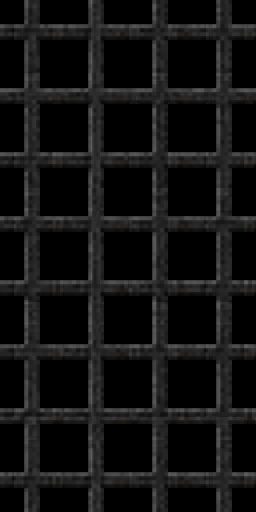
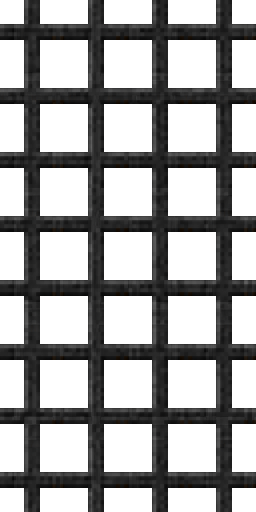
feat: wave 11 groundwork - the masked redraw alpha path
Masked mid-textures (grates, bars, vines) join the redraw pipeline:

- fix: wave 8 shipped AQMETL21/AQMETL15 redraws opaque while their
  natives are 85%/56% transparent - two-sided grate holes rendered
  solid; the native hole mask (4x nearest) is now their alpha, and
  pipeline v28 -> v29 drops the stale opaque packs
- EnhancedJobRunner: masked redraws pass AlphaBleedGuard before
  sharpen/mips so hole RGB cannot bleed into edges
- exporter writes RGBA with alpha-0 holes for masked composites
  (opaque outputs stay byte-identical RGB)
- validator --masked: hole fraction within 10pp of native, seam over
  premultiplied RGB; tone match stats over opaque texels only, alpha
  untouched; quantize carries alpha through
- WorldRedrawAssetTests: masked natives check hole-fraction closeness
  instead of full opacity (targeted suite 9/9)
- 11 masked natives exported (300 sidedefs) + two set prompts
  (grates metal x7, glass/vines/openings x4)

diff --git a/Assets/Tests/EditMode/Map/WorldRedrawAssetTests.cs b/Assets/Tests/EditMode/Map/WorldRedrawAssetTests.cs
@@ -65,9 +65,27 @@ namespace Doom.Map.Tests
                         name + " height");
 
                     var pixels = tex.GetPixels32();
-                    foreach (var p in pixels)
-                        if (p.a < 255)
-                            Assert.Fail(name + " has transparent pixels (walls are opaque)");
+                    double nativeTransparent = TransparentFraction(native);
+                    if (nativeTransparent == 0)
+                    {
+                        foreach (var p in pixels)
+                            if (p.a < 255)
+                                Assert.Fail(name + " has transparent pixels (walls are opaque)");
+                    }
+                    else
+                    {
+                        // Masked mid-textures (grates, vines): the redraw must
+                        // keep a hole fraction close to the native silhouette.
+                        double redrawTransparent = TransparentFraction(pixels);
+                        Assert.That(
+                            System.Math.Abs(redrawTransparent - nativeTransparent),
+                            Is.LessThanOrEqualTo(0.10),
+                            $"{name} transparent fraction {redrawTransparent:F2} vs native {nativeTransparent:F2}");
+                        // Seam metric compares RGB; premultiply so hole texels
+                        // (arbitrary RGB under alpha 0) cannot skew it.
+                        Premultiply(pixels);
+                        native = Premultiplied(native);
+                    }
 
                     double redrawRatio = HorizontalSeamRatio(pixels, tex.width, tex.height);
                     double nativeRatio = HorizontalSeamRatio(native);
@@ -94,6 +112,46 @@ namespace Doom.Map.Tests
                 Assert.IsTrue(WorldRedrawAllowlist.Contains(name),
                     name + " sits in Resources/EnhancedWorld without an allowlist entry");
             }
+        }
+
+        static double TransparentFraction(Color32[] pixels)
+        {
+            int n = 0;
+            foreach (var p in pixels)
+                if (p.a == 0) n++;
+            return (double)n / pixels.Length;
+        }
+
+        static double TransparentFraction(DecodedImage img)
+        {
+            int n = 0;
+            for (int i = 3; i < img.Rgba.Length; i += 4)
+                if (img.Rgba[i] == 0) n++;
+            return (double)n / (img.Width * img.Height);
+        }
+
+        static void Premultiply(Color32[] pixels)
+        {
+            for (int i = 0; i < pixels.Length; i++)
+            {
+                var p = pixels[i];
+                pixels[i] = new Color32(
+                    (byte)(p.r * p.a / 255), (byte)(p.g * p.a / 255),
+                    (byte)(p.b * p.a / 255), p.a);
+            }
+        }
+
+        static DecodedImage Premultiplied(DecodedImage img)
+        {
+            var rgba = (byte[])img.Rgba.Clone();
+            for (int i = 0; i < rgba.Length; i += 4)
+            {
+                byte a = rgba[i + 3];
+                rgba[i] = (byte)(rgba[i] * a / 255);
+                rgba[i + 1] = (byte)(rgba[i + 1] * a / 255);
+                rgba[i + 2] = (byte)(rgba[i + 2] * a / 255);
+            }
+            return new DecodedImage(img.Width, img.Height, rgba);
         }
 
         /// Wrapped edge-pair mean abs diff over interior neighbour-column diff

diff --git a/Tools/validate_tile_redraw.py b/Tools/validate_tile_redraw.py
@@ -24,6 +24,19 @@ ROOT = os.path.join(REPO, "Textures", "WorldRedraw")
 SCALE = 4
 
 
+def premultiplied(img):
+    """RGB * alpha so hole texels (arbitrary RGB under alpha 0) drop out."""
+    rgba = img.convert("RGBA")
+    px = rgba.load()
+    out = Image.new("RGB", rgba.size)
+    op = out.load()
+    for y in range(rgba.size[1]):
+        for x in range(rgba.size[0]):
+            r, g, b, a = px[x, y]
+            op[x, y] = (r * a // 255, g * a // 255, b * a // 255)
+    return out
+
+
 def seam_ratio(img, vertical):
     """Wrapped-edge mean abs diff / interior mean neighbour diff."""
     rgb = img.convert("RGB")
@@ -53,7 +66,14 @@ def seam_ratio(img, vertical):
     return seam / max(interior, 1e-6), seam, interior
 
 
-def check(lump, fname, vertical, max_ratio, slack):
+def transparent_fraction(img):
+    if img.mode not in ("RGBA", "LA", "PA"):
+        return 0.0
+    hist = img.getchannel("A").histogram()
+    return hist[0] / (img.size[0] * img.size[1])
+
+
+def check(lump, fname, vertical, max_ratio, slack, masked):
     d = os.path.join(ROOT, lump)
     native = Image.open(os.path.join(d, "native.png"))
     path = os.path.join(d, fname)
@@ -68,7 +88,25 @@ def check(lump, fname, vertical, max_ratio, slack):
         print("FAIL %s size: %s, want %s" % (lump, redraw.size, want))
         ok = False
 
-    if redraw.mode in ("RGBA", "LA", "PA"):
+    if masked:
+        # Masked mid-textures: the redraw must keep a hole fraction close to
+        # the native silhouette; the seam runs on premultiplied RGB so hole
+        # texels drop out of the metric.
+        nt = transparent_fraction(native)
+        rt = transparent_fraction(redraw)
+        if nt == 0:
+            print("FAIL %s masked: native has no transparency" % lump)
+            ok = False
+        elif abs(rt - nt) > 0.10:
+            print("FAIL %s alpha coverage: redraw %.2f transparent vs native %.2f"
+                  % (lump, rt, nt))
+            ok = False
+        else:
+            print("ok %s alpha coverage: redraw %.2f vs native %.2f"
+                  % (lump, rt, nt))
+        native = premultiplied(native)
+        redraw = premultiplied(redraw)
+    elif redraw.mode in ("RGBA", "LA", "PA"):
         alpha = redraw.getchannel("A")
         lo, _hi = alpha.getextrema()
         if lo < 255:
@@ -101,7 +139,11 @@ if __name__ == "__main__":
                     help="also check the vertical wrap (flats)")
     ap.add_argument("--max-ratio", type=float, default=2.0)
     ap.add_argument("--slack", type=float, default=1.5)
+    ap.add_argument("--masked", action="store_true",
+                    help="masked mid-texture: require alpha holes close to the "
+                         "native fraction, seam over premultiplied RGB")
     a = ap.parse_args()
-    good = all(check(l.upper(), a.file, a.vertical, a.max_ratio, a.slack)
+    good = all(check(l.upper(), a.file, a.vertical, a.max_ratio, a.slack,
+                     a.masked)
                for l in a.lumps)
     sys.exit(0 if good else 1)

diff --git a/Tools/export_wall_texture.py b/Tools/export_wall_texture.py
@@ -60,20 +60,21 @@ def compose(data, lumps, index, texname):
             w, h = struct.unpack_from("<hh", b, o + 12)
             pc = struct.unpack_from("<h", b, o + 20)[0]
             canvas = bytearray(w * h)  # palette indices, 0 default
+            cover = bytearray(w * h)   # 1 where any patch wrote (masked alpha)
             for pi in range(pc):
                 px, py, pnum = struct.unpack_from("<hhh", b, o + 22 + 10 * pi)
-                draw_patch(canvas, w, h, lump_bytes(pnames[pnum]), px, py)
-            return w, h, canvas
+                draw_patch(canvas, cover, w, h, lump_bytes(pnames[pnum]), px, py)
+            return w, h, canvas, cover
 
-    # Not a composite texture — try a raw 64x64 flat lump.
+    # Not a composite texture — try a raw 64x64 flat lump (always opaque).
     if texname in index:
         _, off, size = lumps[index[texname]]
         if size == 64 * 64:
-            return 64, 64, bytearray(data[off:off + size])
+            return 64, 64, bytearray(data[off:off + size]), bytearray(b"\1" * size)
     raise SystemExit("not a TEXTURE1/2 texture nor a 64x64 flat: " + texname)
 
 
-def draw_patch(canvas, w, h, b, ox, oy):
+def draw_patch(canvas, cover, w, h, b, ox, oy):
     pw, _ph, _lo, _to = struct.unpack_from("<hhhh", b, 0)
     colofs = struct.unpack_from("<%di" % pw, b, 8)
     for col in range(pw):
@@ -91,6 +92,7 @@ def draw_patch(canvas, w, h, b, ox, oy):
                 y = oy + topdelta + j
                 if 0 <= y < h:
                     canvas[y * w + x] = b[p]
+                    cover[y * w + x] = 1
                 p += 1
             p += 1
 
@@ -98,14 +100,22 @@ def draw_patch(canvas, w, h, b, ox, oy):
 def export(texname):
     data, lumps, index = load_wad(WAD)
     pal = data[lumps[index["PLAYPAL"]][1]:][:768]
-    w, h, canvas = compose(data, lumps, index, texname)
+    w, h, canvas, cover = compose(data, lumps, index, texname)
 
-    img = Image.new("RGB", (w, h))
+    # Masked textures (uncovered texels) export as RGBA with alpha 0 holes;
+    # fully covered ones stay RGB so opaque-wave outputs are byte-identical.
+    masked = 0 in cover
+    img = Image.new("RGBA" if masked else "RGB", (w, h))
     px = img.load()
     for y in range(h):
         for x in range(w):
-            c = canvas[y * w + x]
-            px[x, y] = (pal[c * 3], pal[c * 3 + 1], pal[c * 3 + 2])
+            i = y * w + x
+            c = canvas[i]
+            rgb = (pal[c * 3], pal[c * 3 + 1], pal[c * 3 + 2])
+            if masked:
+                px[x, y] = rgb + ((255,) if cover[i] else (0,))
+            else:
+                px[x, y] = rgb
 
     out_dir = os.path.join(OUT_ROOT, texname)
     os.makedirs(out_dir, exist_ok=True)

diff --git a/Tools/tone_match_redraw.py b/Tools/tone_match_redraw.py
@@ -36,30 +36,46 @@ def tone_match(lump):
     if not os.path.exists(raw_path):
         os.replace(out_path, raw_path)
 
-    native = Image.open(os.path.join(folder, "native.png")).convert("RGB")
-    raw = Image.open(raw_path).convert("RGB")
+    native_img = Image.open(os.path.join(folder, "native.png"))
+    raw_img = Image.open(raw_path)
+
+    # Masked mid-textures: statistics run over OPAQUE texels only (holes are
+    # arbitrary RGB and would drag the mean — same lesson as the UV-coverage
+    # mask on the barrel), correction touches RGB only, alpha ships unchanged.
+    masked = native_img.mode in ("RGBA", "LA", "PA")
+
+    native = native_img.convert("RGBA" if masked else "RGB")
+    raw = raw_img.convert("RGBA" if masked else "RGB")
 
     a = np.asarray(native, dtype=np.float64)
-    b_small = np.asarray(raw.resize(native.size, Image.LANCZOS), dtype=np.float64)
+    raw_small = raw.resize(native.size, Image.LANCZOS)
+    b_small = np.asarray(raw_small, dtype=np.float64)
     b = np.asarray(raw, dtype=np.float64)
 
-    out = np.empty_like(b)
+    if masked:
+        mask_n = a[..., 3] > 128
+        mask_r = b_small[..., 3] > 128
+    else:
+        mask_n = np.ones(a.shape[:2], bool)
+        mask_r = np.ones(b_small.shape[:2], bool)
+
+    out = b.copy()
     for c in range(3):
-        mean_n, std_n = a[..., c].mean(), a[..., c].std()
-        mean_r, std_r = b_small[..., c].mean(), b_small[..., c].std()
+        mean_n, std_n = a[..., c][mask_n].mean(), a[..., c][mask_n].std()
+        mean_r, std_r = b_small[..., c][mask_r].mean(), b_small[..., c][mask_r].std()
         gain = std_n / max(std_r, 1e-6)
         gain = min(max(gain, 1.0 / STD_CAP), STD_CAP)
         out[..., c] = (b[..., c] - mean_r) * gain + mean_n
 
     out = np.clip(out, 0, 255).astype(np.uint8)
-    Image.fromarray(out, "RGB").save(out_path)
+    Image.fromarray(out, "RGBA" if masked else "RGB").save(out_path)
 
-    la = (a * LUM).sum(2).mean()
-    before = (b_small * LUM).sum(2).mean()
+    la = (a[..., :3] * LUM).sum(2)[mask_n].mean()
+    before = (b_small[..., :3] * LUM).sum(2)[mask_r].mean()
     small = np.asarray(
-        Image.fromarray(out, "RGB").resize(native.size, Image.LANCZOS),
-        dtype=np.float64)
-    after = (small * LUM).sum(2).mean()
+        Image.fromarray(out, "RGBA" if masked else "RGB")
+        .resize(native.size, Image.LANCZOS), dtype=np.float64)
+    after = (small[..., :3] * LUM).sum(2)[mask_r].mean()
     print("OK %-9s lum native %6.1f  redraw %6.1f (%.2f) -> %6.1f (%.2f)"
           % (lump, la, before, before / la, after, after / la))
 

diff --git a/Tools/quantize_to_playpal.py b/Tools/quantize_to_playpal.py
@@ -37,26 +37,29 @@ def load_playpal():
 
 def quantize(lump, fname, outname):
     palette = load_playpal()
-    src = Image.open(os.path.join(ROOT, lump, fname)).convert("RGB")
+    src_img = Image.open(os.path.join(ROOT, lump, fname))
+    # Masked mid-textures: quantize RGB, carry alpha through untouched.
+    masked = src_img.mode in ("RGBA", "LA", "PA")
+    src = src_img.convert("RGBA" if masked else "RGB")
     px = src.load()
-    out = Image.new("RGB", src.size)
+    out = Image.new("RGBA" if masked else "RGB", src.size)
     opx = out.load()
     cache = {}
     wr, wg, wb = WEIGHTS
     for y in range(src.height):
         for x in range(src.width):
             c = px[x, y]
-            hit = cache.get(c)
+            r, g, b = c[0], c[1], c[2]
+            hit = cache.get((r, g, b))
             if hit is None:
-                r, g, b = c
                 best, bestd = palette[0], 1e18
                 for p in palette:
                     d = (wr * (r - p[0]) ** 2 + wg * (g - p[1]) ** 2
                          + wb * (b - p[2]) ** 2)
                     if d < bestd:
                         best, bestd = p, d
-                cache[c] = hit = best
-            opx[x, y] = hit
+                cache[(r, g, b)] = hit = best
+            opx[x, y] = hit + (c[3],) if masked else hit
     out_path = os.path.join(ROOT, lump, outname)
     out.save(out_path)
     print("OK %s: %d distinct source colors -> %s" % (lump, len(cache), out_path))

diff --git a/Assets/Scripts/Graphics/EnhancedJobRunner.cs b/Assets/Scripts/Graphics/EnhancedJobRunner.cs
@@ -63,7 +63,14 @@ namespace Doom.Graphics
             // (wave-1 gate finding, 2026-08-24).
             if (job.Redraw != null)
             {
-                var sharpened = SharpenFilter.Apply(job.Redraw);
+                // Masked redraws (grates, vines) carry real alpha: dilate opaque
+                // RGB under the transparent holes first, else bilinear/mips
+                // bleed whatever color the author left there into the edges —
+                // same guard the native Super-xBR path gets before upscale.
+                var source = job.ApplyAlphaBleed
+                    ? AlphaBleedGuard.Dilate(job.Redraw)
+                    : job.Redraw;
+                var sharpened = SharpenFilter.Apply(source);
                 var redrawMips = PaletteMipGenerator.Generate(
                     sharpened, job.Palette, job.Wrap,
                     preserveAlphaCoverage: true, quantizeToPalette: false);

diff --git a/Assets/Scripts/Graphics/EnhancedPipelineVersion.cs b/Assets/Scripts/Graphics/EnhancedPipelineVersion.cs
@@ -77,6 +77,11 @@ namespace Doom.Graphics
         // v28: wave 10 (2026-08-26) — 26 flat redraws (the static floor/
         // ceiling core: hex slabs, concrete, panels/planks, stone/organic,
         // TLITE6_5); v27 packs hold Super-xBR output under those names.
-        public const int Value = 28;
+        // v29: masked redraw alpha (2026-08-26) — AQMETL21/AQMETL15 redraws
+        // regain the native hole mask (wave 8 shipped them opaque, which
+        // filled two-sided grate holes solid), and masked redraws now get
+        // AlphaBleedGuard before sharpen/mips; v28 packs hold opaque albedo
+        // under those names.
+        public const int Value = 29;
     }
 }
